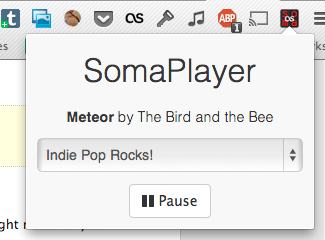
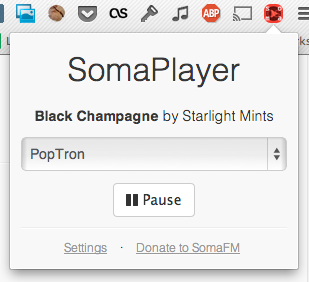
Update popup screenshot, add options page screenshot

diff --git a/README.md b/README.md
@@ -4,7 +4,13 @@ SomaPlayer is a Chrome extension for playing and scrobbling stations from [SomaF
 
 **This is a work in progress, the extension isn't available in the Chrome Store yet.**
 
+*Pop-up:*
+
 ![Screenshot of extension popup](http://github.com/moneypenny/soma-chrome/raw/master/screenshot.png)
+
+*Options page:*
+
+![Screenshot of extension options page](http://github.com/moneypenny/soma-chrome/raw/master/screenshot.png)
 
 ## How to Build
 
